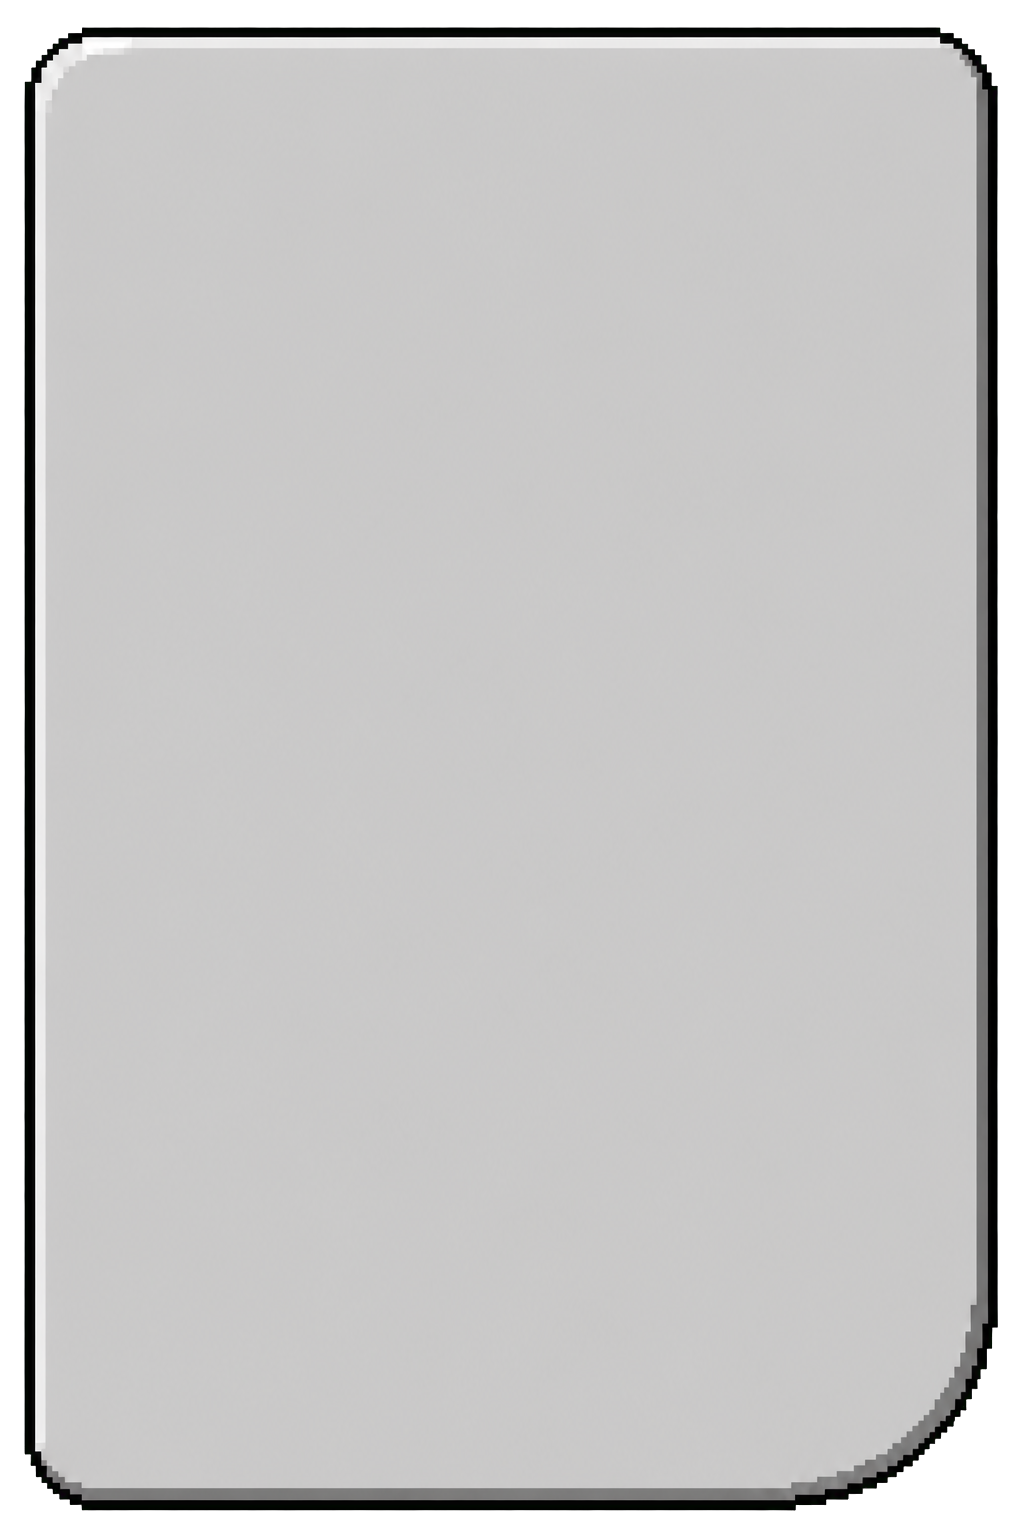
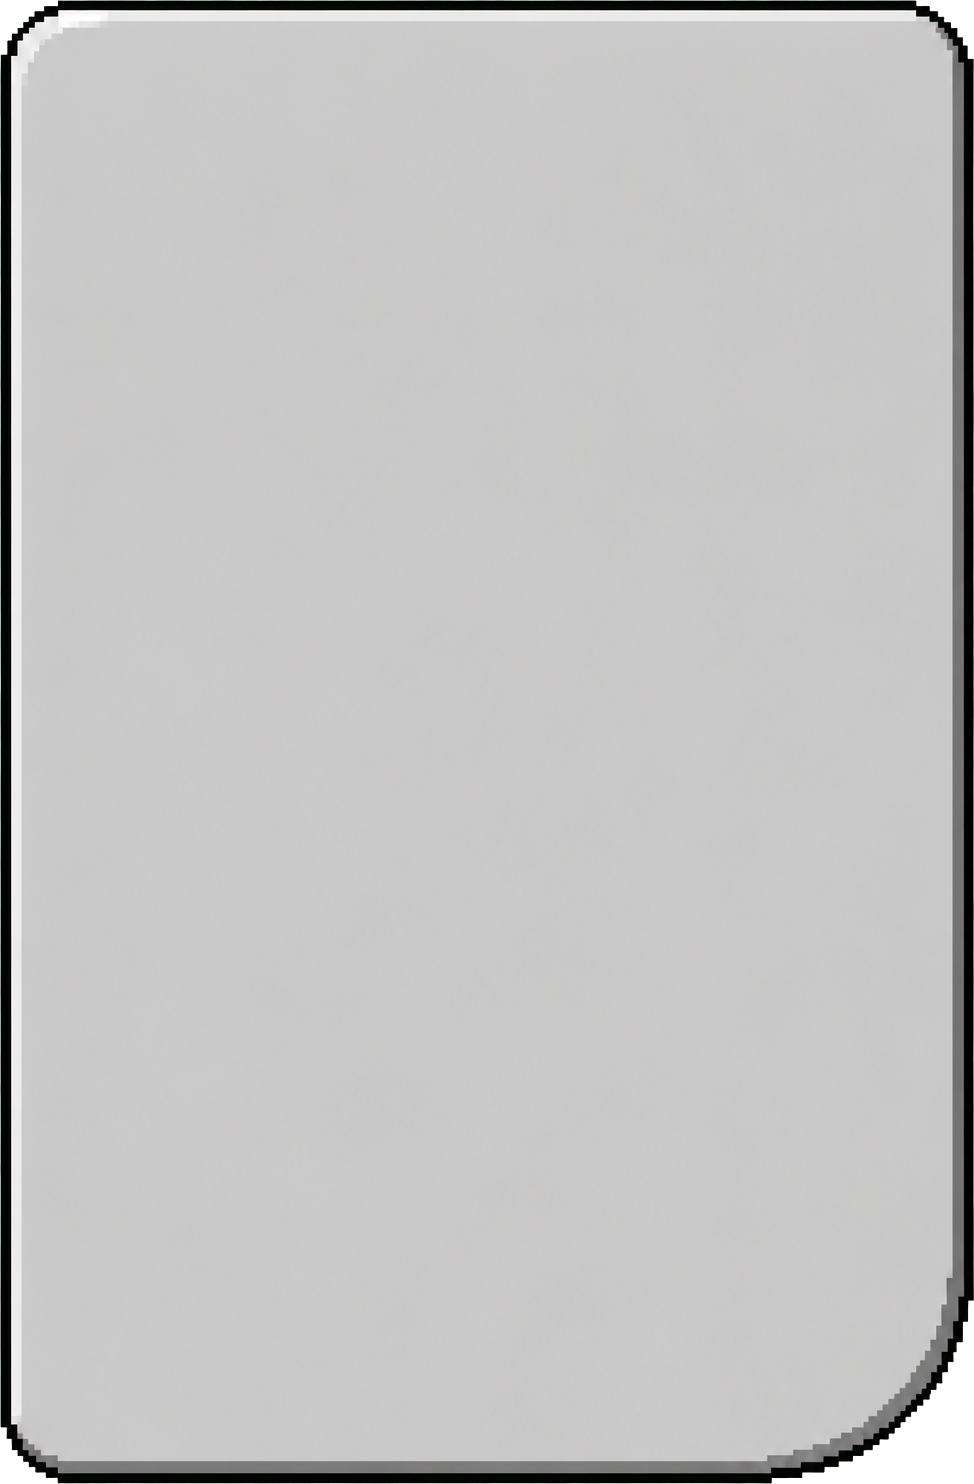
Keep launcher header within safe areas

Changed region(s): [[0.0, 0.0, 1.0, 1.0]]

diff --git a/assets/css/styles.css b/assets/css/styles.css
@@ -106,6 +106,12 @@ button {
   padding: 2px 0 8px;
 }
 
+body:not(.is-playing) .app-header {
+  padding-top: max(2px, calc(env(safe-area-inset-top) - 1dvh));
+  padding-right: max(0px, calc(env(safe-area-inset-right) - 4.3vw));
+  padding-left: max(0px, calc(env(safe-area-inset-left) - 4.3vw));
+}
+
 .header-actions {
   display: flex;
   align-items: center;

diff --git a/assets/js/version.js b/assets/js/version.js
@@ -1,1 +1,1 @@
-export const APP_VERSION = "0.27";
+export const APP_VERSION = "0.28";

diff --git a/sw.js b/sw.js
@@ -1,4 +1,4 @@
-const CACHE_NAME = "minigames-app-v0.27";
+const CACHE_NAME = "minigames-app-v0.28";
 
 const APP_SHELL = [
   "./",